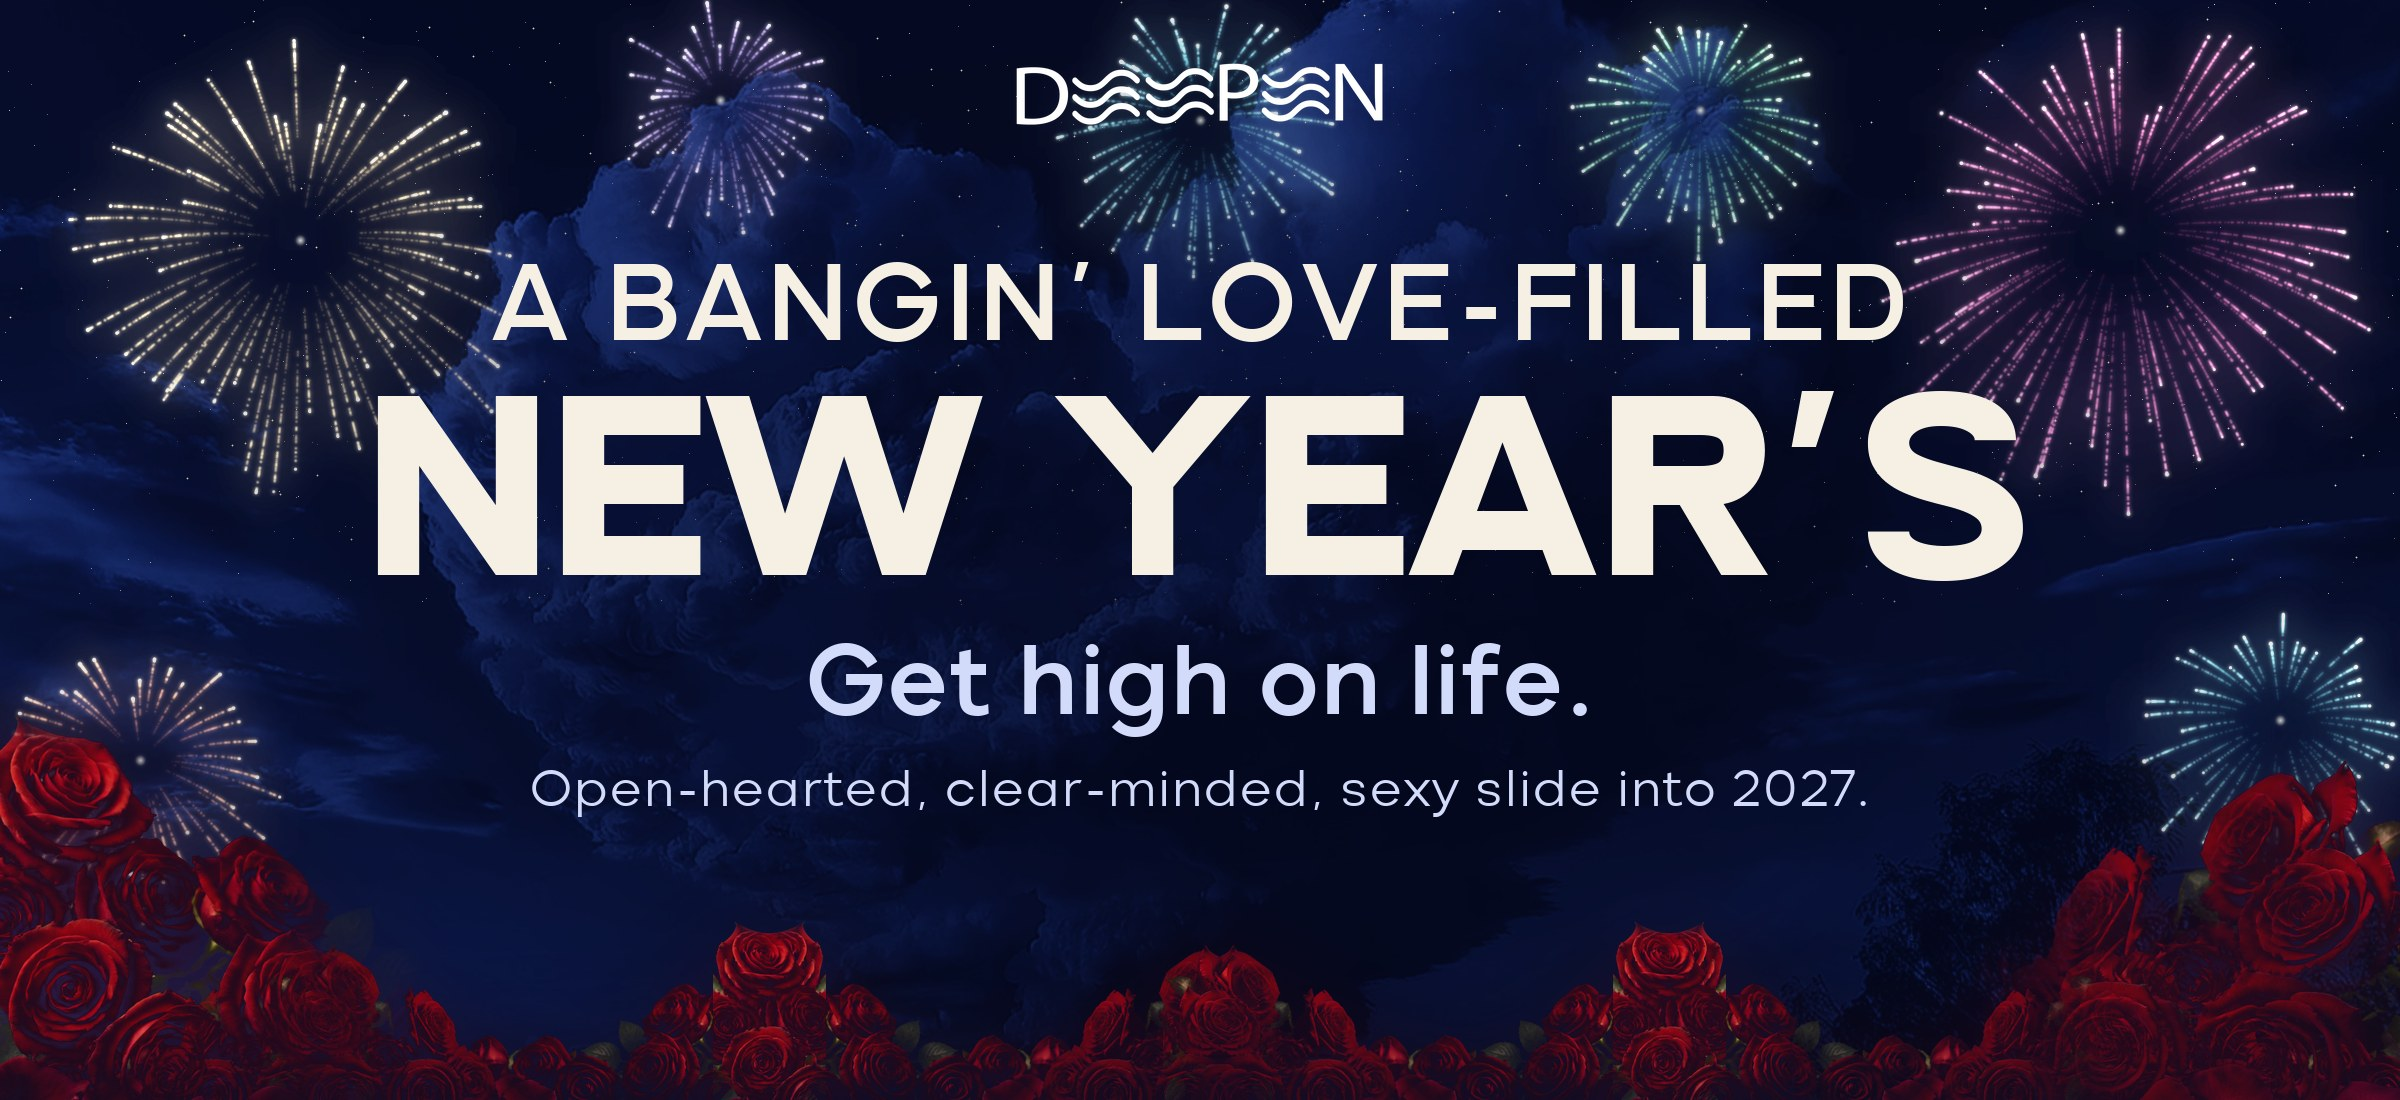
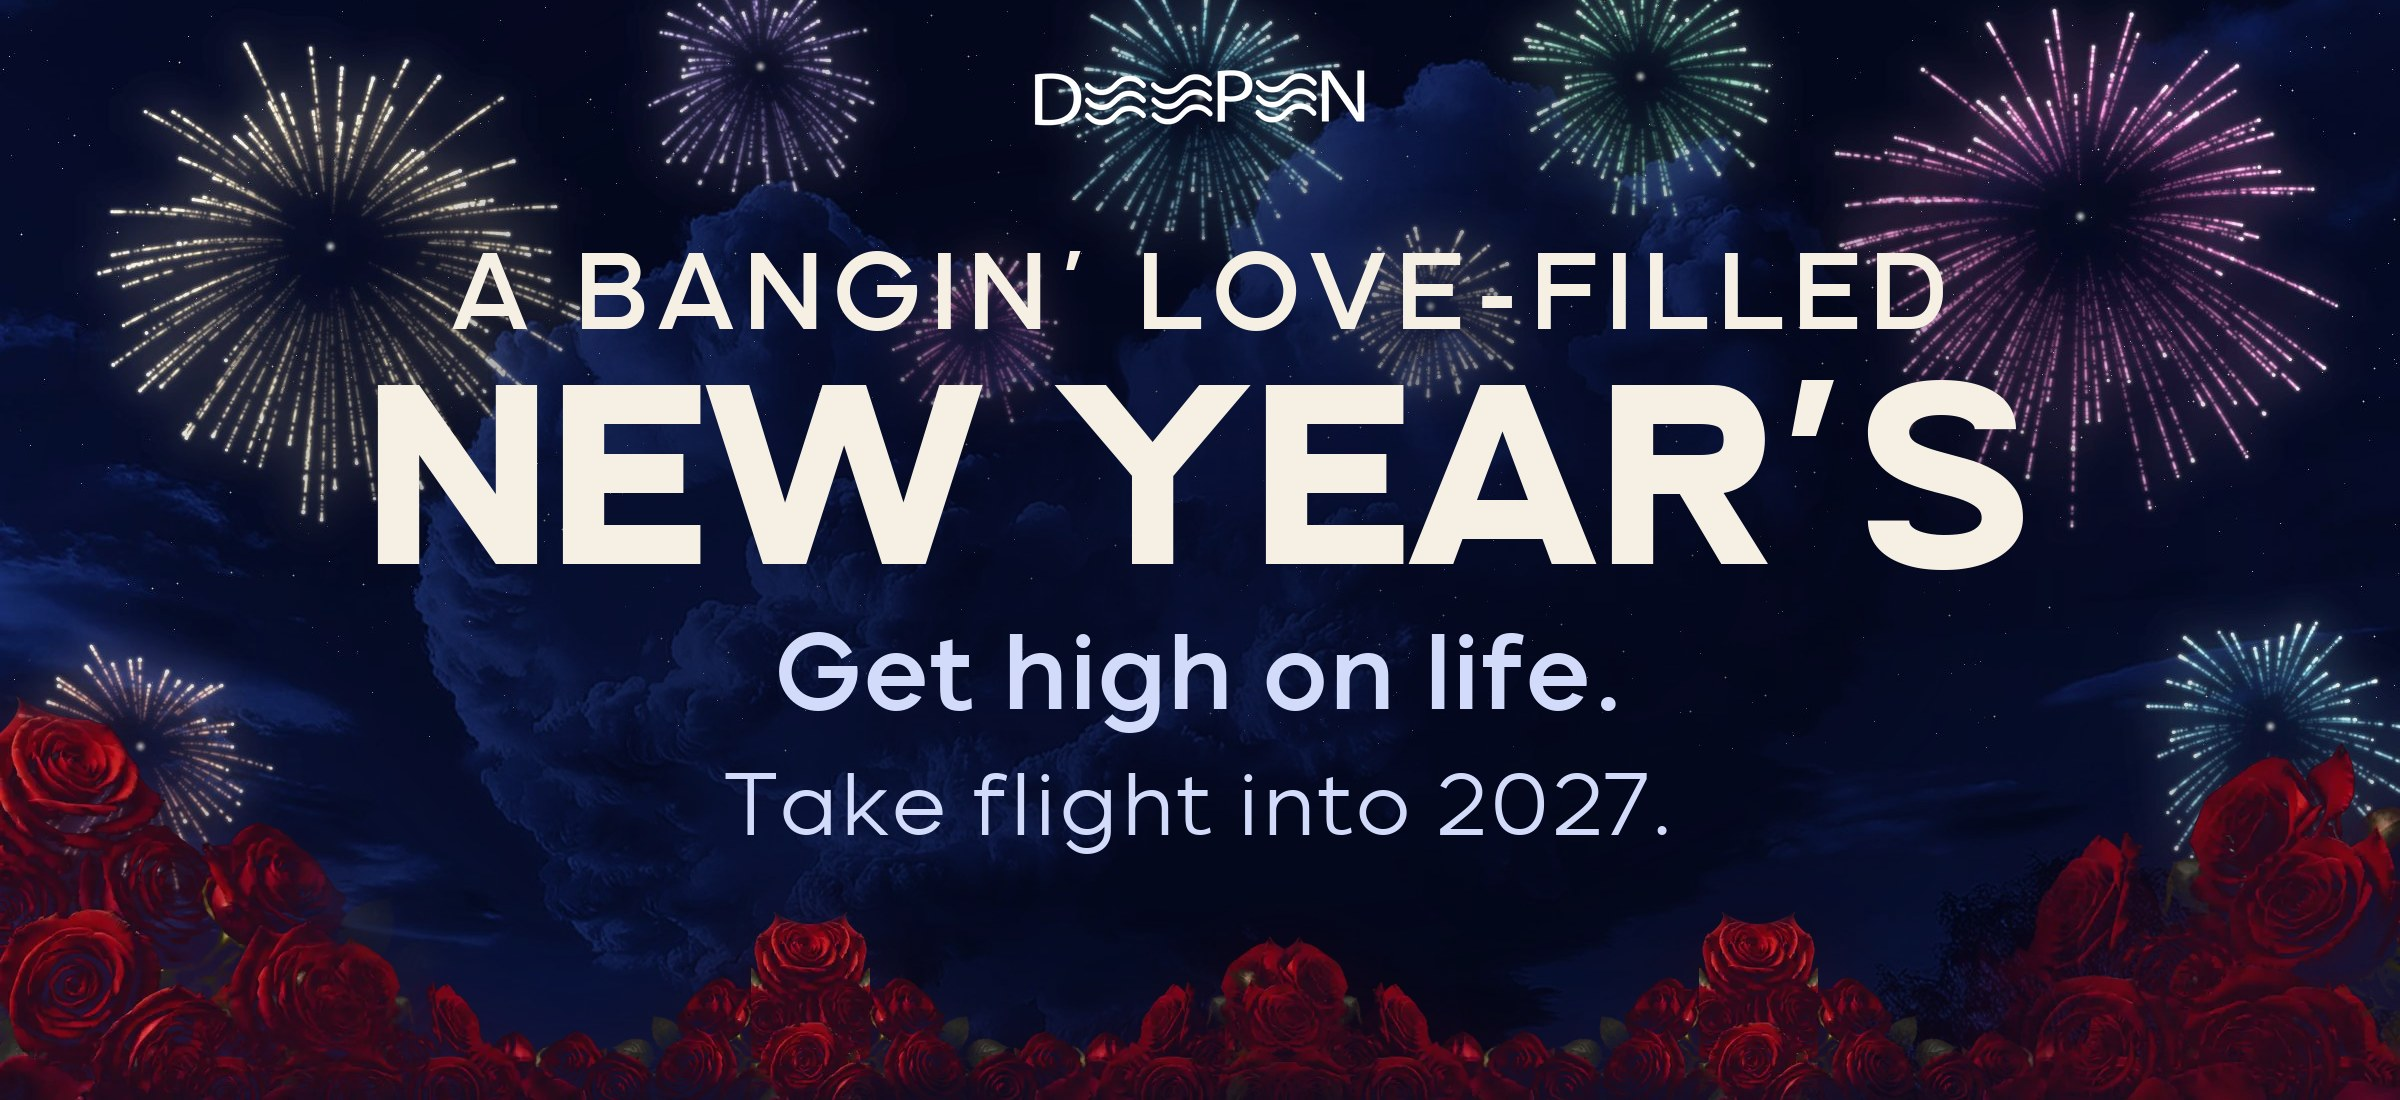
NYE audit fixes: share image and description say 'Take flight into 2027'; no implied lodging ('Dec 30 to Jan 1'); hosts line about the guides; event listing gets ticket link and pair offer; new TicketSpice header

Changed region(s): [[0.0, 0.0, 1.0, 1.0], [0.1562, 0.7418, 0.1875, 0.7727], [0.0625, 0.4327, 0.0938, 0.4636]]

diff --git a/nye/index.html b/nye/index.html
@@ -25,7 +25,7 @@
   <script src="/js/checkout-tracking.js?v=3" defer></script>
   
   <title>A Bangin' Love-Filled New Year's | Sober NYE in Austin | WeDeepen</title>
-  <meta name="description" content="A completely sober New Year&#39;s for 30 people at the Gatsby Mansion in Austin, Dec 30 to Jan 1. Get high on life and slide into 2027 open-hearted and clear-minded. Book your spot.">
+  <meta name="description" content="A completely sober New Year&#39;s for 30 people at the Gatsby Mansion in Austin, Dec 30 to Jan 1. Get high on life and take flight into 2027. Book your spot.">
   <meta name="robots" content="index, follow">
   <link rel="canonical" href="https://wedeepen.com/nye/">
 
@@ -33,7 +33,7 @@
   <meta property="og:url" content="https://wedeepen.com/nye/">
   <meta property="og:title" content="A Bangin&#39; Love-Filled New Year&#39;s: Get high on life.">
   <meta property="og:description" content="30 people, one new year. Settle your nervous system, get clear on what you truly desire, and choose your 2027 with people whose dreams are coming true. The Warm-Up Dec 30, then New Year&#39;s Eve straight through to a sunrise closing circle at the Gatsby Mansion, Austin. Completely sober, fully alive. Only 30 spots: book your ticket now.">
-  <meta property="og:image" content="https://wedeepen.com/images/og/nye.jpg?v=3">
+  <meta property="og:image" content="https://wedeepen.com/images/og/nye.jpg?v=4">
   <meta property="og:image:width" content="1200">
   <meta property="og:image:height" content="630">
   <meta property="og:image:type" content="image/jpeg">
@@ -42,7 +42,7 @@
   <meta name="twitter:card" content="summary_large_image">
   <meta name="twitter:title" content="A Bangin&#39; Love-Filled New Year&#39;s: Get high on life.">
   <meta name="twitter:description" content="30 people, one new year. Settle your nervous system, get clear on what you truly desire, and choose your 2027 with people whose dreams are coming true. The Warm-Up Dec 30, then New Year&#39;s Eve straight through to a sunrise closing circle at the Gatsby Mansion, Austin. Completely sober, fully alive. Only 30 spots: book your ticket now.">
-  <meta name="twitter:image" content="https://wedeepen.com/images/og/nye.jpg?v=3">
+  <meta name="twitter:image" content="https://wedeepen.com/images/og/nye.jpg?v=4">
 
 
   <!-- Fonts -->
@@ -251,7 +251,10 @@
   "description": "A completely sober New Year's gathering for 30 people at the Gatsby Mansion in Austin, TX.",
   "startDate": "2026-12-30T18:00:00-06:00",
   "endDate": "2027-01-01T10:00:00-06:00",
-  "offers": { "@type": "Offer", "price": "1995", "priceCurrency": "USD", "availability": "https://schema.org/InStock" },
+  "offers": [
+    { "@type": "Offer", "name": "Individual ticket", "price": "1995", "priceCurrency": "USD", "availability": "https://schema.org/InStock", "url": "https://wedeepen.ticketspice.com/wedeepen-nye-gathering", "validFrom": "2026-10-28T00:00:00-05:00" },
+    { "@type": "Offer", "name": "Pair ticket (two people)", "price": "3790", "priceCurrency": "USD", "availability": "https://schema.org/InStock", "url": "https://wedeepen.ticketspice.com/wedeepen-nye-gathering", "validFrom": "2026-10-28T00:00:00-05:00" }
+  ],
   "eventAttendanceMode": "https://schema.org/OfflineEventAttendanceMode",
   "eventStatus": "https://schema.org/EventScheduled",
   "location": {
@@ -259,7 +262,7 @@
     "name": "The Gatsby Mansion",
     "address": { "@type": "PostalAddress", "addressLocality": "Austin", "addressRegion": "TX", "addressCountry": "US" }
   },
-  "image": "https://wedeepen.com/images/og/nye.jpg?v=3",
+  "image": "https://wedeepen.com/images/og/nye.jpg?v=4",
   "organizer": { "@type": "Organization", "name": "WeDeepen", "url": "https://wedeepen.com/" },
   "maximumAttendeeCapacity": 30
 }
@@ -453,7 +456,7 @@
       <p class="text-white/85 text-base md:text-lg leading-relaxed max-w-xl mx-auto mb-2" style="text-shadow: 0 2px 16px rgba(0,0,0,0.6);">Ring in 2027 clear-headed, fully awake, and activated into the life you truly&nbsp;want.</p>
       <p class="text-white/75 text-sm md:text-base tracking-wide leading-relaxed max-w-xl mx-auto mt-3 mb-8" style="text-shadow: 0 2px 16px rgba(0,0,0,0.6);">Substance-free. Wildly&nbsp;alive.</p>
       <ul class="nye-strip flex flex-wrap justify-center gap-2 md:gap-3 max-w-3xl mx-auto mb-9">
-        <li>Two nights at a private mansion</li>
+        <li>Dec 30 to Jan 1 at a private mansion</li>
         <li>3 expert guides</li>
         <li>4 shared meals</li>
       </ul>
@@ -710,7 +713,7 @@
     <div class="max-w-site mx-auto reveal">
       <div class="text-center mb-12">
         <h2 class="font-heading text-4xl md:text-5xl font-normal gold-line-center">Your Guides for <span class="italic" style="color:#9FB4FF;">New Year&rsquo;s</span></h2>
-        <p class="text-white/70 text-base md:text-lg leading-relaxed font-light max-w-xl mx-auto mt-8">Spend two nights with people equally committed to loving and being loved&nbsp;better.</p>
+        <p class="text-white/70 text-base md:text-lg leading-relaxed font-light max-w-xl mx-auto mt-8">Three guides holding the space, so you can let go and&nbsp;play.</p>
       </div>
       <div class="grid md:grid-cols-3 gap-5 items-stretch max-w-5xl mx-auto">
         <div class="pillar-card rounded-2xl overflow-hidden text-center flex flex-col">
@@ -929,7 +932,7 @@
         <div class="w-12 h-px bg-white/15 mx-auto mb-6"></div>
         <p class="text-center text-gold text-xs tracking-[0.2em] uppercase font-medium mb-6">What your ticket includes</p>
         <ul class="space-y-5 max-w-xl mx-auto text-left">
-          <li class="flex gap-4"><span class="flex-shrink-0 mt-0.5 w-5 h-5 rounded-full flex items-center justify-center text-[10px] font-bold" style="background:#C9A277;color:#070B1F;">&#10003;</span><div><p class="text-white font-semibold">Two nights at The Gatsby Mansion</p><p class="text-white/60 text-sm leading-relaxed mt-0.5">A private Austin estate with a pool, hot tub, casino room, theater, and game room. Ours from Dec 30 to Jan 1.</p></div></li>
+          <li class="flex gap-4"><span class="flex-shrink-0 mt-0.5 w-5 h-5 rounded-full flex items-center justify-center text-[10px] font-bold" style="background:#C9A277;color:#070B1F;">&#10003;</span><div><p class="text-white font-semibold">Dec 30 to Jan 1 at The Gatsby Mansion</p><p class="text-white/60 text-sm leading-relaxed mt-0.5">A private Austin estate with a pool, hot tub, casino room, theater, and game room. Ours from the Warm-Up on Dec 30 until checkout on Jan 1.</p></div></li>
           <li class="flex gap-4"><span class="flex-shrink-0 mt-0.5 w-5 h-5 rounded-full flex items-center justify-center text-[10px] font-bold" style="background:#C9A277;color:#070B1F;">&#10003;</span><div><p class="text-white font-semibold">Three expert guides</p><p class="text-white/60 text-sm leading-relaxed mt-0.5">Christina Weber, Yossef Sagi, and Melissa D. lead every part of the experience.</p></div></li>
           <li class="flex gap-4"><span class="flex-shrink-0 mt-0.5 w-5 h-5 rounded-full flex items-center justify-center text-[10px] font-bold" style="background:#C9A277;color:#070B1F;">&#10003;</span><div><p class="text-white font-semibold">Yossef&rsquo;s four-stage experience</p><p class="text-white/60 text-sm leading-relaxed mt-0.5">From inner union to the dance floor: get clear on what you want and feel your 2027 in your body.</p></div></li>
           <li class="flex gap-4"><span class="flex-shrink-0 mt-0.5 w-5 h-5 rounded-full flex items-center justify-center text-[10px] font-bold" style="background:#C9A277;color:#070B1F;">&#10003;</span><div><p class="text-white font-semibold">Four shared meals</p><p class="text-white/60 text-sm leading-relaxed mt-0.5">Welcome dinner on Dec 30. Breakfast, lunch, and a celebration dinner on Dec 31.</p></div></li>
